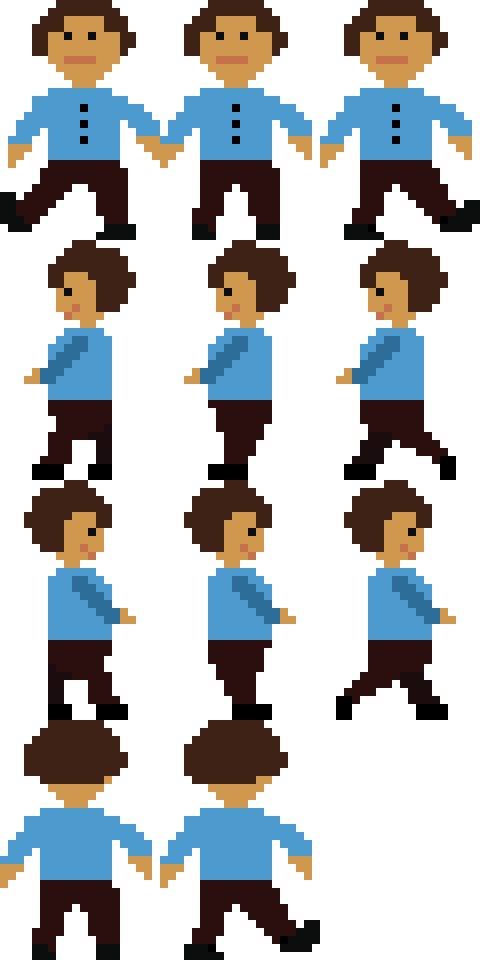
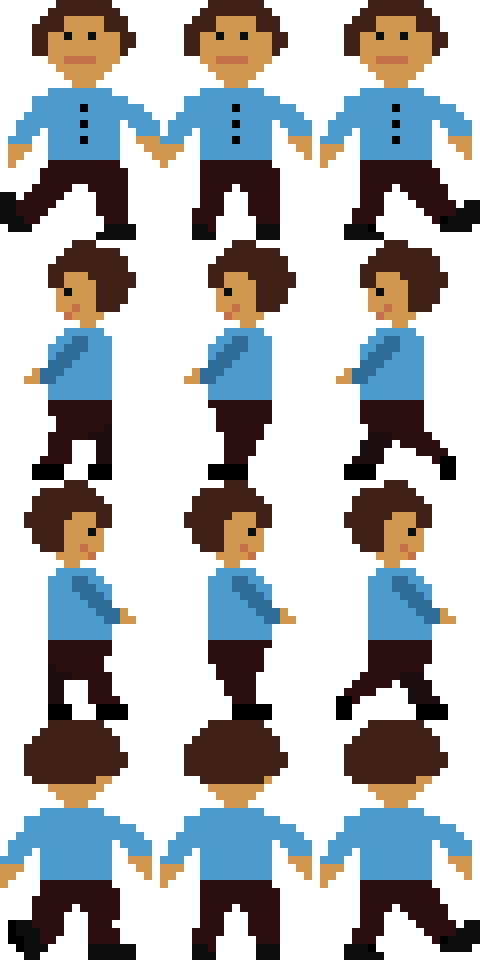
Add Child
- fix player sprite
- fix #21

diff --git a/src/GameObjects/Child.hpp b/src/GameObjects/Child.hpp
@@ -1,17 +1,23 @@
-#ifndef PLAYER_HPP
-#define PLAYER_HPP
+#ifndef CHILD_HPP
+#define CHILD_HPP
 
 #include "GameObject.hpp"
 
-class Player : public GameObject
-{
+class Child : public GameObject {
 public:
-    Player(Logger *logger, Settings *settings)
-        : GameObject(logger, settings, GameObject::Type::Player)
+    enum Action {
+        Idle,
+        MovingRight,
+        MovingLeft,
+        MovingUp,
+        MovingDown
+    };
+    Child(Logger* logger, Settings* settings)
+        : GameObject(logger, settings, GameObject::Type::Child)
     {
-        if (!image_.loadFromFile("res/CampParts/Player.png"))
+        if (!image_.loadFromFile("res/CampParts/Player.png")) // TODO
         {
-            logger_->error("Player", "res/CampParts/Player.png not found");
+            logger_->error("Child", "res/CampParts/Player.png not found");
             return;
         }
 
@@ -46,9 +52,19 @@ public:
         sprite_ = AnimatedSprite(sf::seconds(0.2), true, false);
         //sprite_.setPosition(sf::Vector2f(settings_->screenWidth / 2 - playerSize_ / 2, settings_->screenHeight / 2 - playerSize_ / 2));
 
-        movement_ = sf::Vector2i(0, 0);
+        movement_ = sf::Vector2f(0.f, 0.f);
 
         setAnimation();
+
+        currentAction_ = getRandomAction();
+
+        sprite_.setScale(0.75f, 0.75f);
+    }
+
+    Action getRandomAction()
+    {
+        int index = std::rand() % 5;
+        return Action(index);
     }
 
     void setAnimation()
@@ -62,55 +78,73 @@ public:
     {
         current_ = &walkingDown_;
         movement_.y += speed_;
-        if (sprite_.getPosition().y > settings_->mapHeight - playerSizeY_)
-        {
-            movement_.y = 0;
+        if (sprite_.getPosition().y > settings_->mapHeight - playerSizeY_) {
+            movement_.y = 0.f;
         }
-        noKeyWasPressed_ = false;
+        sprite_.move(movement_);
     }
     void up()
     {
         current_ = &walkingUp_;
         movement_.y += -speed_;
-        if (sprite_.getPosition().y < 0)
-        {
-            movement_.y = 0;
+        if (sprite_.getPosition().y < 0) {
+            movement_.y = 0.f;
         }
-        noKeyWasPressed_ = false;
+        sprite_.move(movement_);
     }
     void left()
     {
         current_ = &walkingLeft_;
         movement_.x += -speed_;
-        if (sprite_.getPosition().x < 0)
-        {
-            movement_.x = 0;
+        if (sprite_.getPosition().x < 0) {
+            movement_.x = 0.f;
         }
-        noKeyWasPressed_ = false;
+        sprite_.move(movement_);
     }
     void right()
     {
         current_ = &walkingRight_;
         movement_.x += speed_;
-        if (sprite_.getPosition().x > settings_->mapWidth - playerSizeX_)
-        {
-            movement_.x = 0;
+        if (sprite_.getPosition().x > settings_->mapWidth - playerSizeX_) {
+            movement_.x = 0.f;
         }
-        noKeyWasPressed_ = false;
+        sprite_.move(movement_);
     }
 
-    // update player, move in set direction
     void update()
     {
-        if (noKeyWasPressed_)
-        {
+        // use level of child as timer
+        if (actionTimer_.getElapsedTime().asSeconds() > level_) {
+            // choose random action
+            logger_->info("Child", "Grab new action to do");
+            currentAction_ = getRandomAction();
+            logger_->info("Child", "Action: " + std::to_string(currentAction_));
             sprite_.stop();
+            actionTimer_.restart();
         }
+        switch (currentAction_) {
+        case Action::Idle:
+            // do nothing here, just stand around
+            sprite_.stop();
+            break;
+        case MovingDown:
+            down();
+            break;
+        case MovingLeft:
+            left();
+            break;
+        case MovingRight:
+            right();
+            break;
+        case MovingUp:
+            up();
+            break;
+        default:
+            break;
+        }
+        movement_ = sf::Vector2f(0.f, 0.f);
+
         sprite_.update(internalTime_.restart());
-        
-        sprite_.move(sf::Vector2f(movement_));//*frametime.asSeconds());
-        noKeyWasPressed_ = true;
-        movement_ = sf::Vector2i(0, 0);
     }
 
     void play() { sprite_.play(*current_); }
@@ -123,14 +157,16 @@ private:
     Animation walkingRight_;
     Animation walkingUp_;
 
-    Animation *current_ = &walkingDown_;
+    Animation* current_ = &walkingDown_;
 
-    int speed_ = settings_->playerSpeed;
-    sf::Vector2i movement_;
-    bool noKeyWasPressed_ = true;
+    int speed_ = settings_->playerSpeed * 0.75f; // children are slower
+    sf::Vector2f movement_;
 
     int playerSizeX_ = 160;
     int playerSizeY_ = 240;
+
+    Action currentAction_;
+    sf::Clock actionTimer_;
 };
 
 #endif

diff --git a/src/GameController.hpp b/src/GameController.hpp
@@ -214,7 +214,7 @@ void GameController::gameLoop()
                     gameState_ = ShowMenu;
                 }
                 if (sf::Keyboard::isKeyPressed(sf::Keyboard::B)) {
-                    sf::Vector2f worldPos = view_->window.mapPixelToCoords(sf::Mouse::getPosition(),view_->gameView);
+                    sf::Vector2f worldPos = view_->window.mapPixelToCoords(sf::Mouse::getPosition(), view_->gameView);
                     gameObjectManager_->handleClick(worldPos.x, worldPos.y, false);
                 }
                 if (sf::Keyboard::isKeyPressed(sf::Keyboard::M)) {
@@ -232,11 +232,11 @@ void GameController::gameLoop()
                     break;
                 }
                 if (sf::Mouse::isButtonPressed(sf::Mouse::Left)) {
-                    sf::Vector2f worldPos = view_->window.mapPixelToCoords(sf::Vector2i(currentEvent.mouseButton.x, currentEvent.mouseButton.y),view_->gameView);
+                    sf::Vector2f worldPos = view_->window.mapPixelToCoords(sf::Vector2i(currentEvent.mouseButton.x, currentEvent.mouseButton.y), view_->gameView);
                     gameObjectManager_->handleClick(worldPos.x, worldPos.y);
                 }
                 if (sf::Mouse::isButtonPressed(sf::Mouse::Right)) {
-                    sf::Vector2f worldPos = view_->window.mapPixelToCoords(sf::Vector2i(currentEvent.mouseButton.x, currentEvent.mouseButton.y),view_->gameView);
+                    sf::Vector2f worldPos = view_->window.mapPixelToCoords(sf::Vector2i(currentEvent.mouseButton.x, currentEvent.mouseButton.y), view_->gameView);
                     gameObjectManager_->handleClick(worldPos.x, worldPos.y, false);
                 }
                 break;
@@ -264,7 +264,7 @@ void GameController::gameLoop()
 
     view_->clearFrame(); // clear frame for later drawing
 
-    sf::Vector2f mousePos = view_->window.mapPixelToCoords(sf::Mouse::getPosition(view_->window),view_->gameView);
+    sf::Vector2f mousePos = view_->window.mapPixelToCoords(sf::Mouse::getPosition(view_->window), view_->gameView);
     if (gameState_ == Playing) {
         gameObjectManager_->updateMousePosition(mousePos.x, mousePos.y);
     }
@@ -369,6 +369,14 @@ void GameController::loadCampData()
         case GameObject::Type::Sarasani: {
             Sarasani* sarasani = new Sarasani(logger_, settings_, part.x, part.y);
             gameObjectManager_->addGameObject(sarasani);
+            break;
+        }
+        case GameObject::Type::Child: {
+            Child* child = new Child(logger_, settings_);
+            child->setPosition(part.x, part.y);
+            child->setLevel(part.level);
+            gameObjectManager_->addGameObject(child);
+            break;
         }
         default:
             break;

diff --git a/src/GameObjectManager.hpp b/src/GameObjectManager.hpp
@@ -2,6 +2,7 @@
 #define GAMEOBJECTMANAGER_HPP
 
 #include "GameObjects/Blache.hpp"
+#include "GameObjects/Child.hpp"
 #include "GameObjects/ClickableMessageBox.hpp"
 #include "GameObjects/Fire.hpp"
 #include "GameObjects/Grass.hpp"
@@ -452,7 +453,7 @@ public:
 
     void moveCameraToPlayer()
     {
-        sf::Vector2f playerPos = (*playerIterator_)->getPosition() + sf::Vector2f((*playerIterator_)->getSprite().getGlobalBounds().width /2, (*playerIterator_)->getSprite().getGlobalBounds().height/2);
+        sf::Vector2f playerPos = (*playerIterator_)->getPosition() + sf::Vector2f((*playerIterator_)->getSprite().getGlobalBounds().width / 2, (*playerIterator_)->getSprite().getGlobalBounds().height / 2);
         view_->gameView.setCenter(playerPos);
     }
 
@@ -546,14 +547,14 @@ public:
         // TODO make tree placement better
         for (int i = 0; i < std::rand() % 10 + 5; i++) {
             Tree* tree = new Tree(logger_, settings_,
-                200 + std::rand() % static_cast<int>(settings_->mapWidth - 200),
-                200 + std::rand() % static_cast<int>(settings_->mapHeight - 200));
+                200 + std::rand() % static_cast<int>(settings_->mapWidth - 1000),
+                200 + std::rand() % static_cast<int>(settings_->mapHeight - 1000));
             gameObjects_.push_back(tree);
         }
         for (int i = 0; i < std::rand() % 10 + 5; i++) {
             Stone* tree = new Stone(logger_, settings_,
-                200 + std::rand() % static_cast<int>(settings_->mapWidth - 200),
-                200 + std::rand() % static_cast<int>(settings_->mapHeight - 200));
+                200 + std::rand() % static_cast<int>(settings_->mapWidth - 400),
+                200 + std::rand() % static_cast<int>(settings_->mapHeight - 400));
             gameObjects_.push_back(tree);
         }
 
@@ -572,6 +573,15 @@ public:
         player->setPosition(settings_->mapWidth / 2 - player->getSprite().getLocalBounds().width / 2,
             settings_->mapHeight / 2 - player->getSprite().getLocalBounds().height / 2);
         orderGameObjects();
+
+        // create some childs
+        for (int i = 0; i < 20; i++) {
+            Child* child = new Child(logger_, settings_);
+            child->setPosition(200 + std::rand() % static_cast<int>(settings_->mapWidth - 400)-200,
+                200 + std::rand() % static_cast<int>(settings_->mapHeight - 400)-200);
+            child->setLevel(3 + std::rand() % 5);
+            gameObjects_.push_back(child);
+        }
 
         // Give some test items
         addInventoryItem("ItemStreichholz");

diff --git a/src/Screens/Options.hpp b/src/Screens/Options.hpp
@@ -252,6 +252,9 @@ Options::~Options()
     for (auto slider : sliders_) {
         delete slider;
     }
+    for (auto checkBox : checkboxes_) {
+        delete checkBox;
+    }
 }
 
 void Options::show(sf::RenderWindow& window)

diff --git a/src/GameObjects/Inventory.hpp b/src/GameObjects/Inventory.hpp
@@ -3,9 +3,6 @@
 
 #include "GameObject.hpp"
 
-#include <SFML/Graphics.hpp>
-#include <vector>
-
 class Inventory : public GameObject {
 public:
     Inventory(Logger* logger, Settings* settings, int slotSize)

diff --git a/src/GameObjects/Sarasani.hpp b/src/GameObjects/Sarasani.hpp
@@ -3,8 +3,6 @@
 
 #include "GameObject.hpp"
 
-#include <SFML/Graphics.hpp>
-
 class Sarasani : public GameObject {
 public:
     Sarasani(Logger* logger, Settings* settings, int x, int y)

diff --git a/src/GameObjects/Blache.hpp b/src/GameObjects/Blache.hpp
@@ -3,8 +3,6 @@
 
 #include "GameObject.hpp"
 
-#include <SFML/Graphics.hpp>
-
 class Blache : public GameObject {
 public:
     Blache(Logger* logger, Settings* settings, int x, int y)

diff --git a/src/GameObjects/Paloxe.hpp b/src/GameObjects/Paloxe.hpp
@@ -3,8 +3,6 @@
 
 #include "GameObject.hpp"
 
-#include <SFML/Graphics.hpp>
-
 class Paloxe : public GameObject {
 public:
     Paloxe(Logger* logger, Settings* settings, int x, int y)

diff --git a/src/GameObjects/Stone.hpp b/src/GameObjects/Stone.hpp
@@ -3,8 +3,6 @@
 
 #include "GameObject.hpp"
 
-#include <SFML/Graphics.hpp>
-
 class Stone : public GameObject {
 public:
     Stone(Logger* logger, Settings* settings, int x, int y)

diff --git a/src/GameObjects/MouseCursor.hpp b/src/GameObjects/MouseCursor.hpp
@@ -2,7 +2,6 @@
 #define MOUSECURSOR_HPP
 
 #include "GameObject.hpp"
-#include <SFML/Graphics.hpp>
 #include <cmath>
 
 class MouseCursor : public GameObject {

diff --git a/src/GameObjects/GameObject.hpp b/src/GameObjects/GameObject.hpp
@@ -13,6 +13,8 @@ public:
         Sarasani,
         Tree,
         Player,
+        Leader,
+        Child,
         Fire,
         Paloxe,
         Trash,

diff --git a/src/GameObjects/Fire.hpp b/src/GameObjects/Fire.hpp
@@ -1,7 +1,6 @@
 #ifndef FIRE_HPP
 #define FIRE_HPP
 
-#include "AnimatedSprite.hpp"
 #include "GameObject.hpp"
 
 class Fire : public GameObject {
